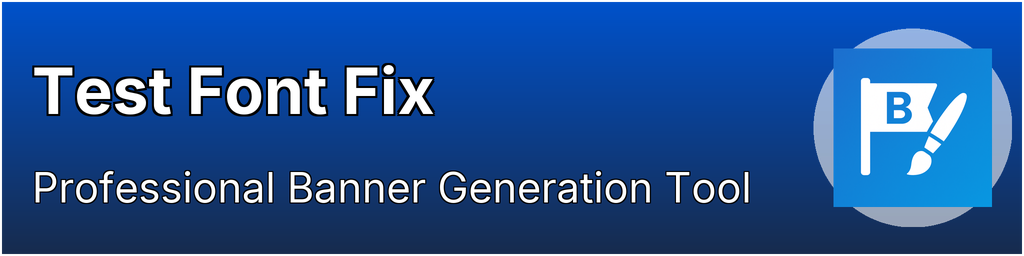
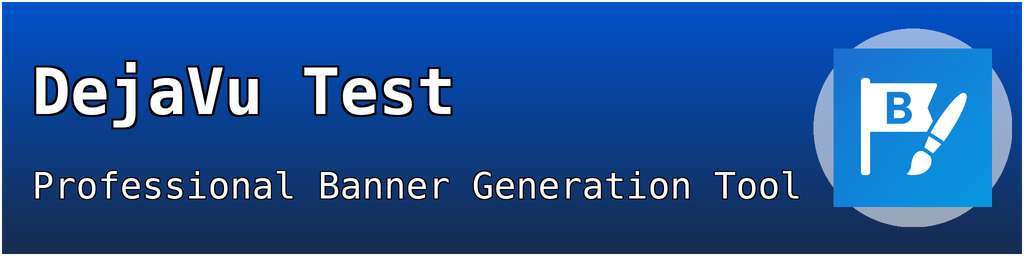
Switch to DejaVu fonts as default to eliminate font warnings
- Changed default fonts from Inter to DejaVu Sans Mono
- DejaVu fonts have better package distribution support
- Enhanced font path resolution with multiple fallback methods
- Eliminated font loading warnings in PyPI package
- Bumped version to 0.1.10

Changed region(s): [[0.0312, 0.6562, 0.7812, 0.8125], [0.0312, 0.2188, 0.4688, 0.5312]]

diff --git a/core/font_utils.py b/core/font_utils.py
@@ -28,11 +28,30 @@ def find_font_path(font_name):
     
     # Check package fonts directory (installed package)
     try:
-        import pkg_resources
-        package_font_path = pkg_resources.resource_filename('', f'fonts/{font_name}')
-        if os.path.isfile(package_font_path):
-            return package_font_path
-    except (ImportError, FileNotFoundError):
+        # Try importlib.resources first (Python 3.9+)
+        try:
+            from importlib import resources
+            with resources.path('fonts', font_name) as font_path:
+                if font_path.exists():
+                    return str(font_path)
+        except (ImportError, AttributeError):
+            # Fallback to pkg_resources
+            import pkg_resources
+            package_font_path = pkg_resources.resource_filename('', f'fonts/{font_name}')
+            if os.path.isfile(package_font_path):
+                return package_font_path
+    except (ImportError, FileNotFoundError, ModuleNotFoundError):
+        pass
+    
+    # Check if fonts are in site-packages directory
+    try:
+        import sys
+        for path in sys.path:
+            if 'site-packages' in path:
+                fonts_path = os.path.join(path, 'fonts', font_name)
+                if os.path.isfile(fonts_path):
+                    return fonts_path
+    except:
         pass
     
     # System font directories by platform

diff --git a/banner/pipeline.py b/banner/pipeline.py
@@ -29,8 +29,8 @@ class BannerConfig:
     icon_bg_color: str = None
     title_font_size: int = None
     subtitle_font_size: int = None
-    title_font: str = "Inter-Bold.ttf"
-    subtitle_font: str = "Inter-Regular.ttf"
+    title_font: str = "DejaVuSansMono-Bold.ttf"
+    subtitle_font: str = "DejaVuSansMono.ttf"
     icon_size: int = 120
     icon_position: str = "right"
     shadow: bool = False

diff --git a/core/constants.py b/core/constants.py
@@ -42,8 +42,8 @@ OPACITY_MODERATE = 128
 OPACITY_STRONG = 192
 
 # === FONT SETTINGS ===
-DEFAULT_TITLE_FONT = "Inter-Bold.ttf"
-DEFAULT_SUBTITLE_FONT = "Inter-Regular.ttf"
+DEFAULT_TITLE_FONT = "DejaVuSansMono-Bold.ttf"
+DEFAULT_SUBTITLE_FONT = "DejaVuSansMono.ttf"
 
 # Font size limits
 MIN_FONT_SIZE = 8

diff --git a/__init__.py b/__init__.py
@@ -4,5 +4,5 @@ try:
 except ImportError:
     from banner_maker import main, cli_main
 
-__version__ = "0.1.9"
+__version__ = "0.1.10"
 __author__ = "Onur Barlik"
